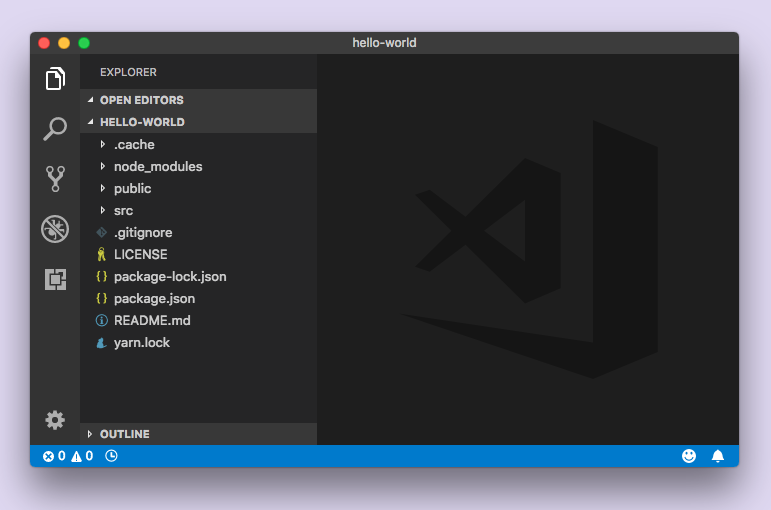
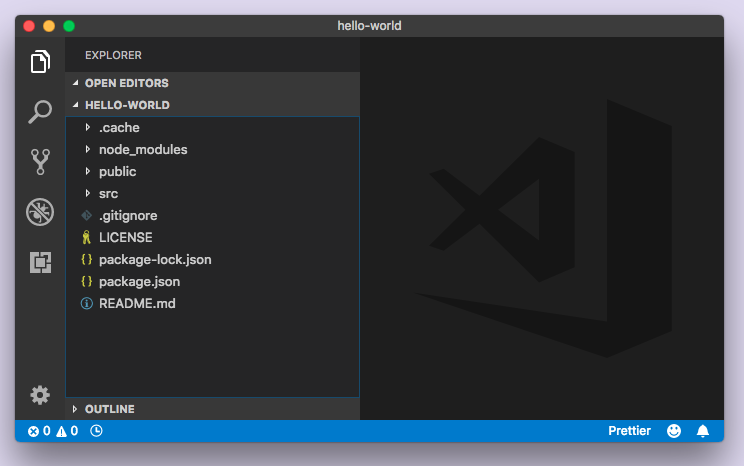
(#7134): replaced setup gif and screenshot with no ref to yarnto minimize confusion

Changed region(s): [[0.0, 0.03, 0.9892, 1.0], [0.4019, 0.1502, 0.4946, 0.2704]]

diff --git a/docs/tutorial/part-zero/index.md b/docs/tutorial/part-zero/index.md
@@ -93,7 +93,7 @@ Now let’s use the gatsby-cli tool to create your first Gatsby site. Using the 
 ### ✋ Create a Gatsby site
 
 1.  Open up your terminal.
-2.  Run `gatsby new hello-world https://github.com/gatsbyjs/gatsby-starter-hello-world#v2`. (_Note: Depending on your download speed, the amount of time this takes will vary_).
+2.  Run `gatsby new hello-world https://github.com/gatsbyjs/gatsby-starter-hello-world#v2`. (_Note: Depending on your download speed, the amount of time this takes will vary. For brevity's sake, the gif below was paused during part of the install_).
 3.  Run `cd hello-world`.
 4.  Run `gatsby develop`.
 
